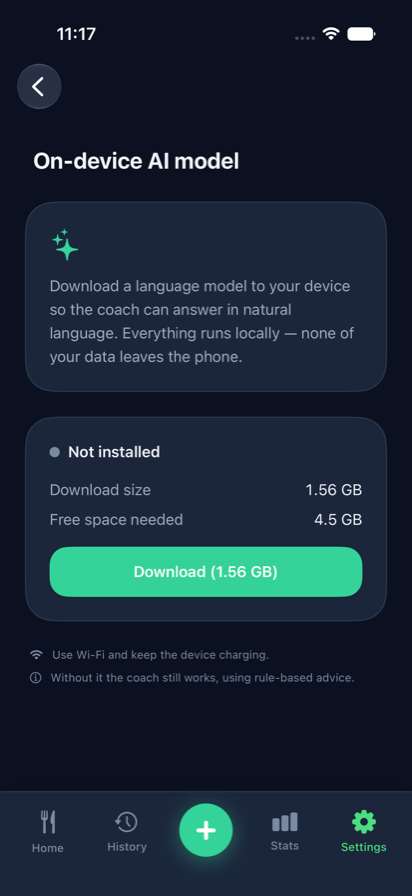
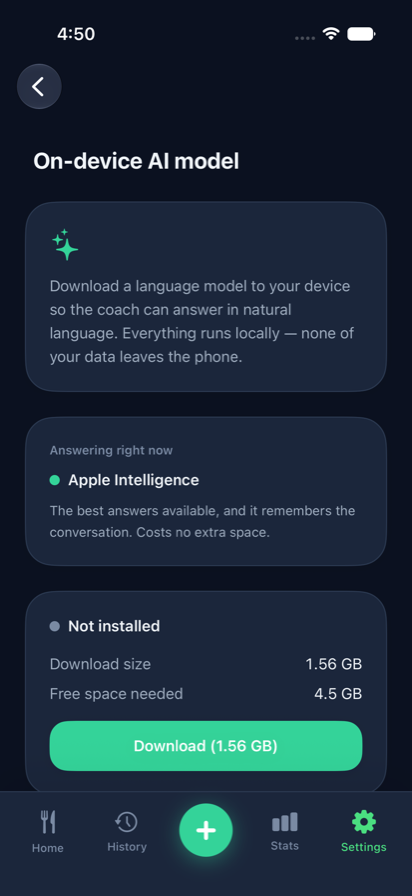
Say which backend is answering
The three layers fall through to each other silently by design, so a
user getting weak answers has no way to know they are talking to the
1.5B model on their device rather than Apple Intelligence — and no
reason to suspect that turning Apple Intelligence on would fix it. The
silence makes a large quality gap look like a broken app.

Changed region(s): [[0.0583, 0.5, 0.9612, 0.9062], [0.1456, 0.0312, 0.233, 0.0625]]

diff --git a/CalorieFlow/Views/ModelDownloadView.swift b/CalorieFlow/Views/ModelDownloadView.swift
@@ -13,6 +13,7 @@ struct ModelDownloadView: View {
     var body: some View {
         SettingsDetailScreen(title: t.modelTitle) {
             header
+            backendCard
             statusCard
             footnote
         }
@@ -35,6 +36,49 @@ struct ModelDownloadView: View {
                 .foregroundStyle(Palette.inkSoft)
         }
         .cardStyle()
+    }
+
+    /// ชั้นไหนกำลังตอบอยู่จริง
+    ///
+    /// มีเพราะทั้งสามชั้นตกทอดกันเงียบ ๆ ตามการออกแบบ — ผู้ใช้ที่ได้คำตอบไม่เข้าท่า
+    /// จึงไม่มีทางรู้เลยว่ากำลังคุยกับโมเดล 1.5B ในเครื่องอยู่ ทั้งที่เปิด Apple
+    /// Intelligence แล้วจะดีขึ้นทันที การเงียบตรงนี้ทำให้คุณภาพที่ต่างกันมากดูเหมือน
+    /// เป็นความผิดของแอปเอง
+    private var backendCard: some View {
+        let (name, note, tint) = backendDetails
+
+        return VStack(alignment: .leading, spacing: 10) {
+            Text(t.backendCardTitle)
+                .font(.caption.weight(.semibold))
+                .foregroundStyle(Palette.inkFaint)
+
+            HStack(spacing: 8) {
+                Circle()
+                    .fill(tint)
+                    .frame(width: 10, height: 10)
+                Text(name)
+                    .font(.subheadline.weight(.semibold))
+                    .foregroundStyle(Palette.ink)
+            }
+
+            Text(note)
+                .font(.footnote)
+                .foregroundStyle(Palette.inkSoft)
+                .fixedSize(horizontal: false, vertical: true)
+        }
+        .frame(maxWidth: .infinity, alignment: .leading)
+        .cardStyle()
+    }
+
+    private var backendDetails: (name: String, note: String, tint: Color) {
+        switch coach.activeBackend {
+        case .foundationModels:
+            (t.backendFoundationModels, t.backendFoundationModelsNote, Palette.green)
+        case .coreML:
+            (t.backendCoreML, t.backendCoreMLNote, Palette.purple)
+        case .ruleBased:
+            (t.backendRuleBased, t.backendRuleBasedNote, Palette.inkFaint)
+        }
     }
 
     private var statusCard: some View {

diff --git a/CalorieFlow/Resources/Strings.swift b/CalorieFlow/Resources/Strings.swift
@@ -392,6 +392,24 @@ struct L10n {
     }
 
     var aiPromptContextHeader: String { s("ข้อมูลผู้ใช้ปัจจุบัน", "Current user data") }
+    var backendCardTitle: String { s("ตอนนี้ใช้อะไรตอบ", "Answering right now") }
+    var backendFoundationModels: String { s("Apple Intelligence", "Apple Intelligence") }
+    var backendCoreML: String { s("โมเดลในเครื่อง (Qwen 1.5B)", "On-device model (Qwen 1.5B)") }
+    var backendRuleBased: String { s("คำแนะนำแบบกฎ", "Rule-based advice") }
+
+    var backendFoundationModelsNote: String {
+        s("คุณภาพดีที่สุดและจำบทสนทนาได้ ไม่กินพื้นที่เพิ่ม",
+          "The best answers available, and it remembers the conversation. Costs no extra space.")
+    }
+    var backendCoreMLNote: String {
+        s("ใช้เมื่อเครื่องไม่มี Apple Intelligence ตอบเป็นภาษาธรรมชาติได้ แต่โมเดลเล็กจึงหลุดประเด็นได้บ่อย เปิด Apple Intelligence แล้วจะดีขึ้นทันที",
+          "Used when Apple Intelligence is unavailable. It answers in natural language but the model is small, so it wanders off topic. Turning on Apple Intelligence improves this immediately.")
+    }
+    var backendRuleBasedNote: String {
+        s("ข้อความสำเร็จรูปตามสถานการณ์ ไม่ใช้โมเดลเลย ตรงประเด็นเสมอแต่ไม่ยืดหยุ่น",
+          "Prewritten advice picked to match the situation. No model involved — always on point, never flexible.")
+    }
+
     var aiPromptChatHistoryHeader: String {
         s("สิ่งที่ผู้ใช้เล่าไว้ก่อนหน้านี้", "What the user mentioned earlier")
     }

diff --git a/CalorieFlow/Services/AICoach.swift b/CalorieFlow/Services/AICoach.swift
@@ -64,6 +64,22 @@ final class AICoach {
     /// ใช้โมเดลได้จริงก็ต่อเมื่อรองรับ *และ* ผู้ใช้ไม่ได้ปิดไว้
     var usesModel: Bool { isEnabled && status.isReady }
 
+    /// ชั้นที่จะได้ตอบคำขอถัดไปจริง ๆ
+    ///
+    /// ลำดับตรงกับที่ `respond` กับ `send` ไล่จริง — ถ้าแก้ลำดับที่นั่นต้องแก้ที่นี่ด้วย
+    /// ไม่งั้นหน้าตั้งค่าจะโกหกผู้ใช้
+    enum Backend {
+        case foundationModels
+        case coreML
+        case ruleBased
+    }
+
+    var activeBackend: Backend {
+        guard usesModel else { return .ruleBased }
+        if case .ready = Self.foundationModelsStatus() { return .foundationModels }
+        return ModelStore.isUsable ? .coreML : .ruleBased
+    }
+
     /// ประเมินใหม่ว่ามีโมเดลให้ใช้ไหม — ต้องเรียกหลังดาวน์โหลดเสร็จหรือลบโมเดลทิ้ง
     ///
     /// `status` ดูจากไฟล์บนดิสก์ แต่คิดครั้งเดียวตอน `init` ถ้าไม่ประเมินใหม่
